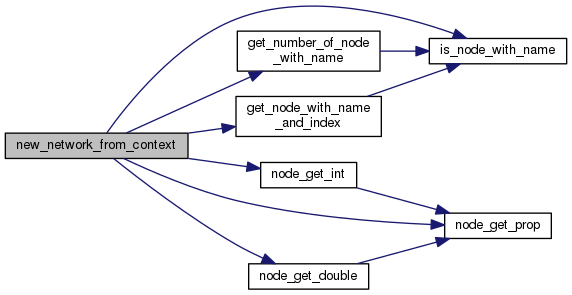
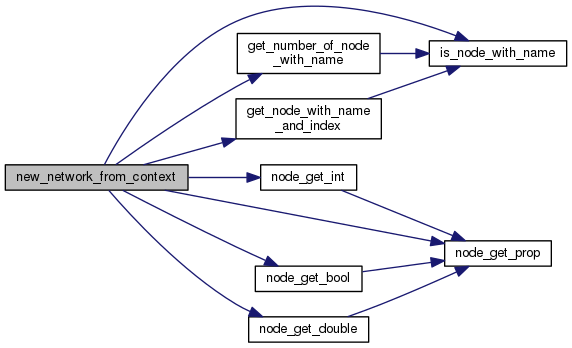
some fix

diff --git a/docs/brain__xml__utils_8h.html b/docs/brain__xml__utils_8h.html
@@ -139,6 +139,9 @@ Functions</h2></td></tr>
 <tr class="memitem:a72dee8218f05b2eedbe81fc28570a09f"><td class="memItemLeft" align="right" valign="top">BrainDouble&#160;</td><td class="memItemRight" valign="bottom"><a class="el" href="brain__xml__utils_8h.html#a72dee8218f05b2eedbe81fc28570a09f">node_get_double</a> (<a class="el" href="brain__builder__types_8h.html#ac1216e2691cfaeab4359a6002087522e">Context</a> node, BrainString key, const BrainDouble _default)</td></tr>
 <tr class="memdesc:a72dee8218f05b2eedbe81fc28570a09f"><td class="mdescLeft">&#160;</td><td class="mdescRight">extract a double value from an attribute  <a href="#a72dee8218f05b2eedbe81fc28570a09f">More...</a><br /></td></tr>
 <tr class="separator:a72dee8218f05b2eedbe81fc28570a09f"><td class="memSeparator" colspan="2">&#160;</td></tr>
+<tr class="memitem:a311d21e7adf9863b916effbd644a3823"><td class="memItemLeft" align="right" valign="top">BrainBool&#160;</td><td class="memItemRight" valign="bottom"><a class="el" href="brain__xml__utils_8h.html#a311d21e7adf9863b916effbd644a3823">node_get_bool</a> (<a class="el" href="brain__builder__types_8h.html#ac1216e2691cfaeab4359a6002087522e">Context</a> node, BrainString key, const BrainBool _default)</td></tr>
+<tr class="memdesc:a311d21e7adf9863b916effbd644a3823"><td class="mdescLeft">&#160;</td><td class="mdescRight">retrieve a boolean from a node  <a href="#a311d21e7adf9863b916effbd644a3823">More...</a><br /></td></tr>
+<tr class="separator:a311d21e7adf9863b916effbd644a3823"><td class="memSeparator" colspan="2">&#160;</td></tr>
 <tr class="memitem:a5fa3d252f3c0c711206e14f3a54a5650"><td class="memItemLeft" align="right" valign="top"><a class="el" href="brain__builder__types_8h.html#a31b8e33bedd1bd0ba81f04221c416e8d">Document</a>&#160;</td><td class="memItemRight" valign="bottom"><a class="el" href="brain__xml__utils_8h.html#a5fa3d252f3c0c711206e14f3a54a5650">open_document</a> (BrainString doc)</td></tr>
 <tr class="memdesc:a5fa3d252f3c0c711206e14f3a54a5650"><td class="mdescLeft">&#160;</td><td class="mdescRight">open an XML document  <a href="#a5fa3d252f3c0c711206e14f3a54a5650">More...</a><br /></td></tr>
 <tr class="separator:a5fa3d252f3c0c711206e14f3a54a5650"><td class="memSeparator" colspan="2">&#160;</td></tr>
@@ -377,6 +380,71 @@ Functions</h2></td></tr>
 
 </div>
 </div>
+<a class="anchor" id="a311d21e7adf9863b916effbd644a3823"></a>
+<div class="memitem">
+<div class="memproto">
+      <table class="memname">
+        <tr>
+          <td class="memname">BrainBool node_get_bool </td>
+          <td>(</td>
+          <td class="paramtype"><a class="el" href="brain__builder__types_8h.html#ac1216e2691cfaeab4359a6002087522e">Context</a>&#160;</td>
+          <td class="paramname"><em>node</em>, </td>
+        </tr>
+        <tr>
+          <td class="paramkey"></td>
+          <td></td>
+          <td class="paramtype">BrainString&#160;</td>
+          <td class="paramname"><em>key</em>, </td>
+        </tr>
+        <tr>
+          <td class="paramkey"></td>
+          <td></td>
+          <td class="paramtype">const BrainBool&#160;</td>
+          <td class="paramname"><em>_default</em>&#160;</td>
+        </tr>
+        <tr>
+          <td></td>
+          <td>)</td>
+          <td></td><td></td>
+        </tr>
+      </table>
+</div><div class="memdoc">
+
+<p>retrieve a boolean from a node </p>
+<dl class="params"><dt>Parameters</dt><dd>
+  <table class="params">
+    <tr><td class="paramname">node</td><td>the current node </td></tr>
+    <tr><td class="paramname">key</td><td>the sttribute name </td></tr>
+    <tr><td class="paramname">_default</td><td>default value </td></tr>
+  </table>
+  </dd>
+</dl>
+<dl class="section return"><dt>Returns</dt><dd>a boolean </dd></dl>
+
+<p><div id="dynsection-6" onclick="return toggleVisibility(this)" class="dynheader closed" style="cursor:pointer;">
+  <img id="dynsection-6-trigger" src="closed.png" alt="+"/> Here is the call graph for this function:</div>
+<div id="dynsection-6-summary" class="dynsummary" style="display:block;">
+</div>
+<div id="dynsection-6-content" class="dyncontent" style="display:none;">
+<div class="center"><img src="brain__xml__utils_8h_a311d21e7adf9863b916effbd644a3823_cgraph.png" border="0" usemap="#brain__xml__utils_8h_a311d21e7adf9863b916effbd644a3823_cgraph" alt=""/></div>
+<map name="brain__xml__utils_8h_a311d21e7adf9863b916effbd644a3823_cgraph" id="brain__xml__utils_8h_a311d21e7adf9863b916effbd644a3823_cgraph">
+<area shape="rect" id="node2" href="brain__xml__utils_8h.html#a2e5bb9c55060b410c8164eb42c239519" title="get a string buffer from an XML node " alt="" coords="160,5,267,32"/></map>
+</div>
+</p>
+
+<p><div id="dynsection-7" onclick="return toggleVisibility(this)" class="dynheader closed" style="cursor:pointer;">
+  <img id="dynsection-7-trigger" src="closed.png" alt="+"/> Here is the caller graph for this function:</div>
+<div id="dynsection-7-summary" class="dynsummary" style="display:block;">
+</div>
+<div id="dynsection-7-content" class="dyncontent" style="display:none;">
+<div class="center"><img src="brain__xml__utils_8h_a311d21e7adf9863b916effbd644a3823_icgraph.png" border="0" usemap="#brain__xml__utils_8h_a311d21e7adf9863b916effbd644a3823_icgraph" alt=""/></div>
+<map name="brain__xml__utils_8h_a311d21e7adf9863b916effbd644a3823_icgraph" id="brain__xml__utils_8h_a311d21e7adf9863b916effbd644a3823_icgraph">
+<area shape="rect" id="node2" href="brain__builder_8h.html#a411535b82bf3ef03e79f391ee9f2c09a" title="Fonction to create a BrainNetwork from an XML context. " alt="" coords="160,5,343,32"/></map>
+</div>
+</p>
+
+</div>
+</div>
 <a class="anchor" id="a72dee8218f05b2eedbe81fc28570a09f"></a>
 <div class="memitem">
 <div class="memproto">
@@ -418,22 +486,22 @@ Functions</h2></td></tr>
 </dl>
 <dl class="section return"><dt>Returns</dt><dd>a BrainDouble </dd></dl>
 
-<p><div id="dynsection-6" onclick="return toggleVisibility(this)" class="dynheader closed" style="cursor:pointer;">
-  <img id="dynsection-6-trigger" src="closed.png" alt="+"/> Here is the call graph for this function:</div>
-<div id="dynsection-6-summary" class="dynsummary" style="display:block;">
+<p><div id="dynsection-8" onclick="return toggleVisibility(this)" class="dynheader closed" style="cursor:pointer;">
+  <img id="dynsection-8-trigger" src="closed.png" alt="+"/> Here is the call graph for this function:</div>
+<div id="dynsection-8-summary" class="dynsummary" style="display:block;">
 </div>
-<div id="dynsection-6-content" class="dyncontent" style="display:none;">
+<div id="dynsection-8-content" class="dyncontent" style="display:none;">
 <div class="center"><img src="brain__xml__utils_8h_a72dee8218f05b2eedbe81fc28570a09f_cgraph.png" border="0" usemap="#brain__xml__utils_8h_a72dee8218f05b2eedbe81fc28570a09f_cgraph" alt=""/></div>
 <map name="brain__xml__utils_8h_a72dee8218f05b2eedbe81fc28570a09f_cgraph" id="brain__xml__utils_8h_a72dee8218f05b2eedbe81fc28570a09f_cgraph">
 <area shape="rect" id="node2" href="brain__xml__utils_8h.html#a2e5bb9c55060b410c8164eb42c239519" title="get a string buffer from an XML node " alt="" coords="173,5,280,32"/></map>
 </div>
 </p>
 
-<p><div id="dynsection-7" onclick="return toggleVisibility(this)" class="dynheader closed" style="cursor:pointer;">
-  <img id="dynsection-7-trigger" src="closed.png" alt="+"/> Here is the caller graph for this function:</div>
-<div id="dynsection-7-summary" class="dynsummary" style="display:block;">
+<p><div id="dynsection-9" onclick="return toggleVisibility(this)" class="dynheader closed" style="cursor:pointer;">
+  <img id="dynsection-9-trigger" src="closed.png" alt="+"/> Here is the caller graph for this function:</div>
+<div id="dynsection-9-summary" class="dynsummary" style="display:block;">
 </div>
-<div id="dynsection-7-content" class="dyncontent" style="display:none;">
+<div id="dynsection-9-content" class="dyncontent" style="display:none;">
 <div class="center"><img src="brain__xml__utils_8h_a72dee8218f05b2eedbe81fc28570a09f_icgraph.png" border="0" usemap="#brain__xml__utils_8h_a72dee8218f05b2eedbe81fc28570a09f_icgraph" alt=""/></div>
 <map name="brain__xml__utils_8h_a72dee8218f05b2eedbe81fc28570a09f_icgraph" id="brain__xml__utils_8h_a72dee8218f05b2eedbe81fc28570a09f_icgraph">
 <area shape="rect" id="node2" href="brain__builder_8h.html#a411535b82bf3ef03e79f391ee9f2c09a" title="Fonction to create a BrainNetwork from an XML context. " alt="" coords="173,5,356,32"/></map>
@@ -483,22 +551,22 @@ Functions</h2></td></tr>
 </dl>
 <dl class="section return"><dt>Returns</dt><dd>a BrainInt </dd></dl>
 
-<p><div id="dynsection-8" onclick="return toggleVisibility(this)" class="dynheader closed" style="cursor:pointer;">
-  <img id="dynsection-8-trigger" src="closed.png" alt="+"/> Here is the call graph for this function:</div>
-<div id="dynsection-8-summary" class="dynsummary" style="display:block;">
+<p><div id="dynsection-10" onclick="return toggleVisibility(this)" class="dynheader closed" style="cursor:pointer;">
+  <img id="dynsection-10-trigger" src="closed.png" alt="+"/> Here is the call graph for this function:</div>
+<div id="dynsection-10-summary" class="dynsummary" style="display:block;">
 </div>
-<div id="dynsection-8-content" class="dyncontent" style="display:none;">
+<div id="dynsection-10-content" class="dyncontent" style="display:none;">
 <div class="center"><img src="brain__xml__utils_8h_a2622e6f851c46cf0c7abf0456c23521e_cgraph.png" border="0" usemap="#brain__xml__utils_8h_a2622e6f851c46cf0c7abf0456c23521e_cgraph" alt=""/></div>
 <map name="brain__xml__utils_8h_a2622e6f851c46cf0c7abf0456c23521e_cgraph" id="brain__xml__utils_8h_a2622e6f851c46cf0c7abf0456c23521e_cgraph">
 <area shape="rect" id="node2" href="brain__xml__utils_8h.html#a2e5bb9c55060b410c8164eb42c239519" title="get a string buffer from an XML node " alt="" coords="149,5,256,32"/></map>
 </div>
 </p>
 
-<p><div id="dynsection-9" onclick="return toggleVisibility(this)" class="dynheader closed" style="cursor:pointer;">
-  <img id="dynsection-9-trigger" src="closed.png" alt="+"/> Here is the caller graph for this function:</div>
-<div id="dynsection-9-summary" class="dynsummary" style="display:block;">
+<p><div id="dynsection-11" onclick="return toggleVisibility(this)" class="dynheader closed" style="cursor:pointer;">
+  <img id="dynsection-11-trigger" src="closed.png" alt="+"/> Here is the caller graph for this function:</div>
+<div id="dynsection-11-summary" class="dynsummary" style="display:block;">
 </div>
-<div id="dynsection-9-content" class="dyncontent" style="display:none;">
+<div id="dynsection-11-content" class="dyncontent" style="display:none;">
 <div class="center"><img src="brain__xml__utils_8h_a2622e6f851c46cf0c7abf0456c23521e_icgraph.png" border="0" usemap="#brain__xml__utils_8h_a2622e6f851c46cf0c7abf0456c23521e_icgraph" alt=""/></div>
 <map name="brain__xml__utils_8h_a2622e6f851c46cf0c7abf0456c23521e_icgraph" id="brain__xml__utils_8h_a2622e6f851c46cf0c7abf0456c23521e_icgraph">
 <area shape="rect" id="node2" href="brain__builder_8h.html#a411535b82bf3ef03e79f391ee9f2c09a" title="Fonction to create a BrainNetwork from an XML context. " alt="" coords="149,5,332,32"/><area shape="rect" id="node3" href="brain__builder_8h.html#ace677f73508ab8c366c0fe4f82ce2f90" title="Load training data from an XML context. " alt="" coords="160,56,321,83"/><area shape="rect" id="node4" href="brain__builder_8h.html#a7fb0b152ccedc8b1335cef3d7d7e6626" title="load previously trained neural network&#39;s weight " alt="" coords="179,107,302,149"/></map>
@@ -541,14 +609,14 @@ Functions</h2></td></tr>
 </dl>
 <dl class="section return"><dt>Returns</dt><dd>an XML buffer that shoul be free </dd></dl>
 
-<p><div id="dynsection-10" onclick="return toggleVisibility(this)" class="dynheader closed" style="cursor:pointer;">
-  <img id="dynsection-10-trigger" src="closed.png" alt="+"/> Here is the caller graph for this function:</div>
-<div id="dynsection-10-summary" class="dynsummary" style="display:block;">
+<p><div id="dynsection-12" onclick="return toggleVisibility(this)" class="dynheader closed" style="cursor:pointer;">
+  <img id="dynsection-12-trigger" src="closed.png" alt="+"/> Here is the caller graph for this function:</div>
+<div id="dynsection-12-summary" class="dynsummary" style="display:block;">
 </div>
-<div id="dynsection-10-content" class="dyncontent" style="display:none;">
+<div id="dynsection-12-content" class="dyncontent" style="display:none;">
 <div class="center"><img src="brain__xml__utils_8h_a2e5bb9c55060b410c8164eb42c239519_icgraph.png" border="0" usemap="#brain__xml__utils_8h_a2e5bb9c55060b410c8164eb42c239519_icgraph" alt=""/></div>
 <map name="brain__xml__utils_8h_a2e5bb9c55060b410c8164eb42c239519_icgraph" id="brain__xml__utils_8h_a2e5bb9c55060b410c8164eb42c239519_icgraph">
-<area shape="rect" id="node2" href="brain__builder_8h.html#a411535b82bf3ef03e79f391ee9f2c09a" title="Fonction to create a BrainNetwork from an XML context. " alt="" coords="328,16,511,43"/><area shape="rect" id="node3" href="brain__builder_8h.html#ace677f73508ab8c366c0fe4f82ce2f90" title="Load training data from an XML context. " alt="" coords="339,133,500,160"/><area shape="rect" id="node4" href="brain__xml__utils_8h.html#a72dee8218f05b2eedbe81fc28570a09f" title="extract a double value from an attribute " alt="" coords="160,27,280,53"/><area shape="rect" id="node5" href="brain__xml__utils_8h.html#a2622e6f851c46cf0c7abf0456c23521e" title="extract an int value from an attribute " alt="" coords="172,77,268,104"/><area shape="rect" id="node6" href="brain__builder_8h.html#a7fb0b152ccedc8b1335cef3d7d7e6626" title="load previously trained neural network&#39;s weight " alt="" coords="358,67,481,109"/></map>
+<area shape="rect" id="node2" href="brain__builder_8h.html#a411535b82bf3ef03e79f391ee9f2c09a" title="Fonction to create a BrainNetwork from an XML context. " alt="" coords="328,73,511,100"/><area shape="rect" id="node3" href="brain__builder_8h.html#ace677f73508ab8c366c0fe4f82ce2f90" title="Load training data from an XML context. " alt="" coords="339,208,500,235"/><area shape="rect" id="node4" href="brain__xml__utils_8h.html#a311d21e7adf9863b916effbd644a3823" title="retrieve a boolean from a node " alt="" coords="167,5,273,32"/><area shape="rect" id="node5" href="brain__xml__utils_8h.html#a72dee8218f05b2eedbe81fc28570a09f" title="extract a double value from an attribute " alt="" coords="160,56,280,83"/><area shape="rect" id="node6" href="brain__xml__utils_8h.html#a2622e6f851c46cf0c7abf0456c23521e" title="extract an int value from an attribute " alt="" coords="172,157,268,184"/><area shape="rect" id="node7" href="brain__builder_8h.html#a7fb0b152ccedc8b1335cef3d7d7e6626" title="load previously trained neural network&#39;s weight " alt="" coords="358,142,481,183"/></map>
 </div>
 </p>
 
@@ -621,7 +689,7 @@ Functions</h2></td></tr>
 <div id="nav-path" class="navpath"><!-- id is needed for treeview function! -->
   <ul>
     <li class="navelem"><a class="el" href="dir_68267d1309a1af8e8297ef4c3efbcdba.html">src</a></li><li class="navelem"><a class="el" href="dir_3614a4769bf2e5108078b7811e118005.html">builder</a></li><li class="navelem"><a class="el" href="brain__xml__utils_8h.html">brain_xml_utils.h</a></li>
-    <li class="footer">Generated on Sun Dec 18 2016 16:17:46 for libBrain by
+    <li class="footer">Generated on Mon Dec 19 2016 15:17:06 for libBrain by
     <a href="http://www.doxygen.org/index.html">
     <img class="footer" src="doxygen.png" alt="doxygen"/></a> 1.8.8 </li>
   </ul>

diff --git a/docs/brain__builder_8h.html b/docs/brain__builder_8h.html
@@ -249,7 +249,7 @@ Functions</h2></td></tr>
 <div id="dynsection-3-content" class="dyncontent" style="display:none;">
 <div class="center"><img src="brain__builder_8h_a411535b82bf3ef03e79f391ee9f2c09a_cgraph.png" border="0" usemap="#brain__builder_8h_a411535b82bf3ef03e79f391ee9f2c09a_cgraph" alt=""/></div>
 <map name="brain__builder_8h_a411535b82bf3ef03e79f391ee9f2c09a_cgraph" id="brain__builder_8h_a411535b82bf3ef03e79f391ee9f2c09a_cgraph">
-<area shape="rect" id="node2" href="brain__xml__utils_8h.html#a909c289a290d5e807b5843464cfc034a" title="Check if a give node has a certain name. " alt="" coords="429,38,567,64"/><area shape="rect" id="node3" href="brain__xml__utils_8h.html#a78eb483dbc0790e2563b6792e73de1d2" title="get the number of children node with given node_name name " alt="" coords="237,30,380,72"/><area shape="rect" id="node4" href="brain__xml__utils_8h.html#a2622e6f851c46cf0c7abf0456c23521e" title="extract an int value from an attribute " alt="" coords="261,162,357,188"/><area shape="rect" id="node5" href="brain__xml__utils_8h.html#a2e5bb9c55060b410c8164eb42c239519" title="get a string buffer from an XML node " alt="" coords="445,212,551,239"/><area shape="rect" id="node6" href="brain__xml__utils_8h.html#a72dee8218f05b2eedbe81fc28570a09f" title="extract a double value from an attribute " alt="" coords="249,263,369,290"/><area shape="rect" id="node7" href="brain__xml__utils_8h.html#a90f1cf35f01430b88a7ddc901c24d9a1" title="get a child node with its name and its position in the XML " alt="" coords="236,96,381,137"/></map>
+<area shape="rect" id="node2" href="brain__xml__utils_8h.html#a909c289a290d5e807b5843464cfc034a" title="Check if a give node has a certain name. " alt="" coords="429,40,567,67"/><area shape="rect" id="node3" href="brain__xml__utils_8h.html#a78eb483dbc0790e2563b6792e73de1d2" title="get the number of children node with given node_name name " alt="" coords="237,33,380,74"/><area shape="rect" id="node4" href="brain__xml__utils_8h.html#a2622e6f851c46cf0c7abf0456c23521e" title="extract an int value from an attribute " alt="" coords="261,164,357,191"/><area shape="rect" id="node5" href="brain__xml__utils_8h.html#a2e5bb9c55060b410c8164eb42c239519" title="get a string buffer from an XML node " alt="" coords="445,240,551,267"/><area shape="rect" id="node6" href="brain__xml__utils_8h.html#a311d21e7adf9863b916effbd644a3823" title="retrieve a boolean from a node " alt="" coords="255,265,362,292"/><area shape="rect" id="node7" href="brain__xml__utils_8h.html#a72dee8218f05b2eedbe81fc28570a09f" title="extract a double value from an attribute " alt="" coords="249,316,369,343"/><area shape="rect" id="node8" href="brain__xml__utils_8h.html#a90f1cf35f01430b88a7ddc901c24d9a1" title="get a child node with its name and its position in the XML " alt="" coords="236,98,381,139"/></map>
 </div>
 </p>
 
@@ -261,7 +261,7 @@ Functions</h2></td></tr>
 <div id="nav-path" class="navpath"><!-- id is needed for treeview function! -->
   <ul>
     <li class="navelem"><a class="el" href="dir_68267d1309a1af8e8297ef4c3efbcdba.html">src</a></li><li class="navelem"><a class="el" href="dir_3614a4769bf2e5108078b7811e118005.html">builder</a></li><li class="navelem"><a class="el" href="brain__builder_8h.html">brain_builder.h</a></li>
-    <li class="footer">Generated on Sun Dec 18 2016 16:17:46 for libBrain by
+    <li class="footer">Generated on Mon Dec 19 2016 15:17:06 for libBrain by
     <a href="http://www.doxygen.org/index.html">
     <img class="footer" src="doxygen.png" alt="doxygen"/></a> 1.8.8 </li>
   </ul>

diff --git a/docs/navtreeindex0.js b/docs/navtreeindex0.js
@@ -63,14 +63,15 @@ var NAVTREEINDEX0 =
 "brain__types_8h.html#add44c3d64045810f58dd68fbcdc8ef42":[1,0,0,0,4,0],
 "brain__types_8h.html#aef1d48952fa11f6fd0c737f5a16f9a41":[1,0,0,0,4,4],
 "brain__xml__utils_8h.html":[1,0,0,1,2],
-"brain__xml__utils_8h.html#a2622e6f851c46cf0c7abf0456c23521e":[1,0,0,1,2,6],
+"brain__xml__utils_8h.html#a2622e6f851c46cf0c7abf0456c23521e":[1,0,0,1,2,7],
 "brain__xml__utils_8h.html#a2acb0da2f19269389ca1cc6b20305b2c":[1,0,0,1,2,0],
-"brain__xml__utils_8h.html#a2e5bb9c55060b410c8164eb42c239519":[1,0,0,1,2,7],
+"brain__xml__utils_8h.html#a2e5bb9c55060b410c8164eb42c239519":[1,0,0,1,2,8],
+"brain__xml__utils_8h.html#a311d21e7adf9863b916effbd644a3823":[1,0,0,1,2,5],
 "brain__xml__utils_8h.html#a4db14479385713852d2a20fe1a0bea11":[1,0,0,1,2,3],
-"brain__xml__utils_8h.html#a5fa3d252f3c0c711206e14f3a54a5650":[1,0,0,1,2,8],
-"brain__xml__utils_8h.html#a72dee8218f05b2eedbe81fc28570a09f":[1,0,0,1,2,5],
+"brain__xml__utils_8h.html#a5fa3d252f3c0c711206e14f3a54a5650":[1,0,0,1,2,9],
+"brain__xml__utils_8h.html#a72dee8218f05b2eedbe81fc28570a09f":[1,0,0,1,2,6],
 "brain__xml__utils_8h.html#a78eb483dbc0790e2563b6792e73de1d2":[1,0,0,1,2,2],
-"brain__xml__utils_8h.html#a82322932424e376e40bd6e9585952ed3":[1,0,0,1,2,9],
+"brain__xml__utils_8h.html#a82322932424e376e40bd6e9585952ed3":[1,0,0,1,2,10],
 "brain__xml__utils_8h.html#a909c289a290d5e807b5843464cfc034a":[1,0,0,1,2,4],
 "brain__xml__utils_8h.html#a90f1cf35f01430b88a7ddc901c24d9a1":[1,0,0,1,2,1],
 "classes.html":[0,1],

diff --git a/docs/search/all_9.js b/docs/search/all_9.js
@@ -6,6 +6,7 @@ var searchData=
   ['new_5fdata_5ffrom_5fcontext',['new_data_from_context',['../brain__builder_8h.html#ace677f73508ab8c366c0fe4f82ce2f90',1,'brain_builder.c']]],
   ['new_5fnetwork_5ffrom_5fcontext',['new_network_from_context',['../brain__builder_8h.html#a411535b82bf3ef03e79f391ee9f2c09a',1,'brain_builder.c']]],
   ['new_5fneuron',['new_neuron',['../brain__neuron__builder_8h.html#a95e511aeaae3b9b89fdb8c52593ff8ba',1,'brain_neuron_builder.c']]],
+  ['node_5fget_5fbool',['node_get_bool',['../brain__xml__utils_8h.html#a311d21e7adf9863b916effbd644a3823',1,'brain_xml_utils.c']]],
   ['node_5fget_5fdouble',['node_get_double',['../brain__xml__utils_8h.html#a72dee8218f05b2eedbe81fc28570a09f',1,'brain_xml_utils.c']]],
   ['node_5fget_5fint',['node_get_int',['../brain__xml__utils_8h.html#a2622e6f851c46cf0c7abf0456c23521e',1,'brain_xml_utils.c']]],
   ['node_5fget_5fprop',['node_get_prop',['../brain__xml__utils_8h.html#a2e5bb9c55060b410c8164eb42c239519',1,'brain_xml_utils.c']]]

diff --git a/docs/search/functions_6.js b/docs/search/functions_6.js
@@ -4,6 +4,7 @@ var searchData=
   ['new_5fdata_5ffrom_5fcontext',['new_data_from_context',['../brain__builder_8h.html#ace677f73508ab8c366c0fe4f82ce2f90',1,'brain_builder.c']]],
   ['new_5fnetwork_5ffrom_5fcontext',['new_network_from_context',['../brain__builder_8h.html#a411535b82bf3ef03e79f391ee9f2c09a',1,'brain_builder.c']]],
   ['new_5fneuron',['new_neuron',['../brain__neuron__builder_8h.html#a95e511aeaae3b9b89fdb8c52593ff8ba',1,'brain_neuron_builder.c']]],
+  ['node_5fget_5fbool',['node_get_bool',['../brain__xml__utils_8h.html#a311d21e7adf9863b916effbd644a3823',1,'brain_xml_utils.c']]],
   ['node_5fget_5fdouble',['node_get_double',['../brain__xml__utils_8h.html#a72dee8218f05b2eedbe81fc28570a09f',1,'brain_xml_utils.c']]],
   ['node_5fget_5fint',['node_get_int',['../brain__xml__utils_8h.html#a2622e6f851c46cf0c7abf0456c23521e',1,'brain_xml_utils.c']]],
   ['node_5fget_5fprop',['node_get_prop',['../brain__xml__utils_8h.html#a2e5bb9c55060b410c8164eb42c239519',1,'brain_xml_utils.c']]]

diff --git a/docs/globals_func.html b/docs/globals_func.html
@@ -239,6 +239,9 @@ $(document).ready(function(){initNavTree('globals_func.html','');});
 <li>new_neuron()
 : <a class="el" href="brain__neuron__builder_8h.html#a95e511aeaae3b9b89fdb8c52593ff8ba">brain_neuron_builder.h</a>
 </li>
+<li>node_get_bool()
+: <a class="el" href="brain__xml__utils_8h.html#a311d21e7adf9863b916effbd644a3823">brain_xml_utils.h</a>
+</li>
 <li>node_get_double()
 : <a class="el" href="brain__xml__utils_8h.html#a72dee8218f05b2eedbe81fc28570a09f">brain_xml_utils.h</a>
 </li>
@@ -298,7 +301,7 @@ $(document).ready(function(){initNavTree('globals_func.html','');});
 <!-- start footer part -->
 <div id="nav-path" class="navpath"><!-- id is needed for treeview function! -->
   <ul>
-    <li class="footer">Generated on Sun Dec 18 2016 16:17:46 for libBrain by
+    <li class="footer">Generated on Mon Dec 19 2016 15:17:07 for libBrain by
     <a href="http://www.doxygen.org/index.html">
     <img class="footer" src="doxygen.png" alt="doxygen"/></a> 1.8.8 </li>
   </ul>

diff --git a/docs/globals.html b/docs/globals.html
@@ -300,6 +300,9 @@ $(document).ready(function(){initNavTree('globals.html','');});
 <li>new_neuron()
 : <a class="el" href="brain__neuron__builder_8h.html#a95e511aeaae3b9b89fdb8c52593ff8ba">brain_neuron_builder.h</a>
 </li>
+<li>node_get_bool()
+: <a class="el" href="brain__xml__utils_8h.html#a311d21e7adf9863b916effbd644a3823">brain_xml_utils.h</a>
+</li>
 <li>node_get_double()
 : <a class="el" href="brain__xml__utils_8h.html#a72dee8218f05b2eedbe81fc28570a09f">brain_xml_utils.h</a>
 </li>
@@ -385,7 +388,7 @@ $(document).ready(function(){initNavTree('globals.html','');});
 <!-- start footer part -->
 <div id="nav-path" class="navpath"><!-- id is needed for treeview function! -->
   <ul>
-    <li class="footer">Generated on Sun Dec 18 2016 16:17:46 for libBrain by
+    <li class="footer">Generated on Mon Dec 19 2016 15:17:07 for libBrain by
     <a href="http://www.doxygen.org/index.html">
     <img class="footer" src="doxygen.png" alt="doxygen"/></a> 1.8.8 </li>
   </ul>

diff --git a/docs/brain__builder__types_8h.html b/docs/brain__builder__types_8h.html
@@ -154,7 +154,7 @@ typedef xmlChar *&#160;</td><td class="memItemRight" valign="bottom"><a class="e
 <div id="nav-path" class="navpath"><!-- id is needed for treeview function! -->
   <ul>
     <li class="navelem"><a class="el" href="dir_68267d1309a1af8e8297ef4c3efbcdba.html">src</a></li><li class="navelem"><a class="el" href="dir_3614a4769bf2e5108078b7811e118005.html">builder</a></li><li class="navelem"><a class="el" href="brain__builder__types_8h.html">brain_builder_types.h</a></li>
-    <li class="footer">Generated on Sun Dec 18 2016 16:17:46 for libBrain by
+    <li class="footer">Generated on Mon Dec 19 2016 15:17:06 for libBrain by
     <a href="http://www.doxygen.org/index.html">
     <img class="footer" src="doxygen.png" alt="doxygen"/></a> 1.8.8 </li>
   </ul>

diff --git a/docs/brain__xml__utils_8h.js b/docs/brain__xml__utils_8h.js
@@ -5,6 +5,7 @@ var brain__xml__utils_8h =
     [ "get_number_of_node_with_name", "brain__xml__utils_8h.html#a78eb483dbc0790e2563b6792e73de1d2", null ],
     [ "get_root_node", "brain__xml__utils_8h.html#a4db14479385713852d2a20fe1a0bea11", null ],
     [ "is_node_with_name", "brain__xml__utils_8h.html#a909c289a290d5e807b5843464cfc034a", null ],
+    [ "node_get_bool", "brain__xml__utils_8h.html#a311d21e7adf9863b916effbd644a3823", null ],
     [ "node_get_double", "brain__xml__utils_8h.html#a72dee8218f05b2eedbe81fc28570a09f", null ],
     [ "node_get_int", "brain__xml__utils_8h.html#a2622e6f851c46cf0c7abf0456c23521e", null ],
     [ "node_get_prop", "brain__xml__utils_8h.html#a2e5bb9c55060b410c8164eb42c239519", null ],

diff --git a/docs/brain__network__builder_8h.html b/docs/brain__network__builder_8h.html
@@ -358,7 +358,7 @@ Functions</h2></td></tr>
 <div id="nav-path" class="navpath"><!-- id is needed for treeview function! -->
   <ul>
     <li class="navelem"><a class="el" href="dir_68267d1309a1af8e8297ef4c3efbcdba.html">src</a></li><li class="navelem"><a class="el" href="dir_b25a7f08a29e71bd5c0b707ba966a66f.html">brain</a></li><li class="navelem"><a class="el" href="brain__network__builder_8h.html">brain_network_builder.h</a></li>
-    <li class="footer">Generated on Sun Dec 18 2016 16:17:46 for libBrain by
+    <li class="footer">Generated on Mon Dec 19 2016 15:17:05 for libBrain by
     <a href="http://www.doxygen.org/index.html">
     <img class="footer" src="doxygen.png" alt="doxygen"/></a> 1.8.8 </li>
   </ul>

diff --git a/docs/brain__neuron__builder_8h.html b/docs/brain__neuron__builder_8h.html
@@ -466,7 +466,7 @@ Functions</h2></td></tr>
 <div id="nav-path" class="navpath"><!-- id is needed for treeview function! -->
   <ul>
     <li class="navelem"><a class="el" href="dir_68267d1309a1af8e8297ef4c3efbcdba.html">src</a></li><li class="navelem"><a class="el" href="dir_b25a7f08a29e71bd5c0b707ba966a66f.html">brain</a></li><li class="navelem"><a class="el" href="brain__neuron__builder_8h.html">brain_neuron_builder.h</a></li>
-    <li class="footer">Generated on Sun Dec 18 2016 16:17:46 for libBrain by
+    <li class="footer">Generated on Mon Dec 19 2016 15:17:05 for libBrain by
     <a href="http://www.doxygen.org/index.html">
     <img class="footer" src="doxygen.png" alt="doxygen"/></a> 1.8.8 </li>
   </ul>

diff --git a/docs/brain__layer__builder_8h.html b/docs/brain__layer__builder_8h.html
@@ -390,7 +390,7 @@ Functions</h2></td></tr>
 <div id="nav-path" class="navpath"><!-- id is needed for treeview function! -->
   <ul>
     <li class="navelem"><a class="el" href="dir_68267d1309a1af8e8297ef4c3efbcdba.html">src</a></li><li class="navelem"><a class="el" href="dir_b25a7f08a29e71bd5c0b707ba966a66f.html">brain</a></li><li class="navelem"><a class="el" href="brain__layer__builder_8h.html">brain_layer_builder.h</a></li>
-    <li class="footer">Generated on Sun Dec 18 2016 16:17:46 for libBrain by
+    <li class="footer">Generated on Mon Dec 19 2016 15:17:05 for libBrain by
     <a href="http://www.doxygen.org/index.html">
     <img class="footer" src="doxygen.png" alt="doxygen"/></a> 1.8.8 </li>
   </ul>
